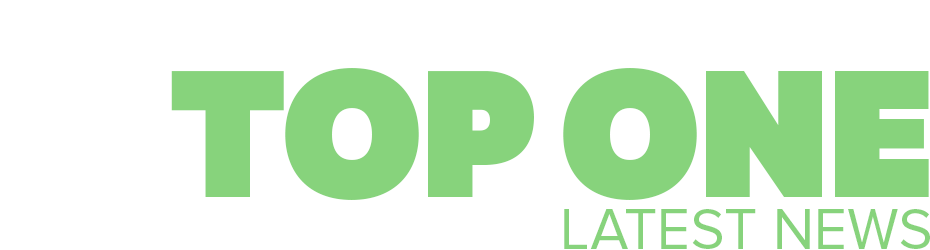
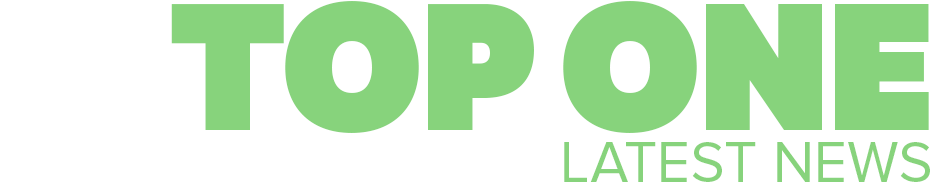
CSS and home updates

diff --git a/css/home.css b/css/home.css
@@ -1,18 +1,54 @@
 /* Home */
 
-.topNews {
-	height: 250px;
-	background-color: #FDE3A7;
-	margin: 15px;	
-}
-
 #subTopicAndImage {
 	margin: 0 auto;
-	width: 930px;
-	height: 200px;
-	border: 1px solid #87D37C;
+	padding-top: 5px;
+	width: 910px;
+	height: 180px;
 	background-image: url(../images/homeimage.png);	
 	background-size: 65%;
 	background-repeat: no-repeat;
 	background-position: top right;
+}
+
+.topNewsContainer {
+	height: 250px;
+	margin: 15px;	
+	position: relative;
+	overflow: hidden;
+	border-bottom: 3px solid #4183D7;
+	padding-bottom: 15px;
+}
+
+/* "!important" overrides inline-styles 
+	which may be included in the fetched RSS */
+.topNewsContainer img,
+.topNewsContainer figure,
+.topNewsContainer iframe,
+.topNewsContainer youtube {
+	margin: 0 !important;
+	padding: 0 !important;
+	width: 400px !important;
+	height: 250px !important;
+	position: absolute !important;
+	top: 0 !important;
+	right: 0 !important;
+}
+
+.textWrap {
+	width: 400px;
+	color: #6C7A89;
+	font-size: 18px;
+	padding-bottom: 15px;
+}
+
+.topNewsContainer a:link {
+	color: #87D37C;
+	text-decoration: none;
+	word-wrap: break-word;
+}
+
+.topNewsContainer a:visited {
+	color: #26A65B;
+	text-decoration: none;
 }

diff --git a/css/main.css b/css/main.css
@@ -9,6 +9,7 @@ header {
 	padding: 0;
 	background-color: #4183D7;
 	position: fixed;
+	z-index: 100;
 }
 
 #blockElement {
@@ -47,11 +48,11 @@ footer {
 }
 
 #toTopAnchor a:visited {
-	color: #F4B350;
+	color: #87D37C;
 }
 
 #toTopAnchor a:hover {
-	color: #F4B350;
+	color: #87D37C;
 }
 
 main h1 {

diff --git a/css/newsfeed.css b/css/newsfeed.css
@@ -105,7 +105,7 @@
 	display: block;
 }
 
-/* This is a class which may be imported from one or more RSS-feeds.
+/* Youtube is a class which may be imported from one or more RSS-feeds.
  * "!important" overrides inline-styles */
 .youtube, iframe, figure {
 	width: 423px !important;

diff --git a/view/HomeView.php b/view/HomeView.php
@@ -14,7 +14,6 @@ class HomeView {
 	public function response() {
 		
 		return 
-			$this -> renderTopic() .
 			$this -> renderSubTopicAndImage() .
 			$this -> renderTopNews();
 	}
@@ -26,17 +25,66 @@ class HomeView {
 	
 	private function renderTopNews() {
 	
-		$divs = '';
-	
-		for ($i = 1; $i <= 3; $i++) {
+		$amountOfSites = 0;
+		$containers = '';
+		
+		foreach ($this -> siteArray as $site) {
 			
-			$divs .= '
-				<div class="topNews">
-				</div>
-			';
+			if ($amountOfSites == 3) break;
+			$amountOfSites += 1;
+			
+			$news = $site -> getNews();
+			$latestArticle = $news[0];
+			
+			$containers .= '
+				<div class="topNewsContainer">
+					'. $this -> renderTopArticle($latestArticle) .'
+				</div>';
 		}
 		
-		return $divs;
+		return $containers;
+	}
+	
+	private function renderTopArticle($latestArticle) {
+	
+			$title = str_replace(' & ', ' &amp; ', $latestArticle -> getTitle());
+			$link = $latestArticle -> getLink();
+			$image = $latestArticle -> getImgUrl();
+			$description = $latestArticle -> getDescription();
+			$date = date('l F d, Y', strtotime($latestArticle -> getPubDate()));
+					
+			return
+				'<div class="textWrap">' .
+					$this -> renderArticleLinkWithTitle($title, $link) .
+					$this -> renderArticleDate($date) .
+					$this -> renderArticleDescription($description) .
+				'</div>' .
+					$this -> renderArticleImage($image);	
+	}
+	
+	private function renderArticleLinkWithTitle($title, $link) {
+	
+		return '<p><strong><a href="'. $link .' title="'. $title .'">'. $title .'</a></strong></p>';
+	}
+	
+	private function renderArticleDate($date) {
+		
+		return '<small>Posted on '. $date .'</small>';
+	}
+	
+	private function renderArticleImage($image) {
+		
+		if ($image != '') { 
+		
+			return '<p><img src="'. $image .'"></p>'; 
+		}
+		
+		return null;
+	}
+	
+	private function renderArticleDescription($description) {
+	
+		return '<p>'. $description .'</p>';	
 	}
 	
 	private function renderSubTopicAndImage() {

diff --git a/controller/MasterController.php b/controller/MasterController.php
@@ -2,14 +2,16 @@
 
 class MasterController {
 
+	private $homeController;
 	private $loginController;
 	private $registerController;
 	private $newsfeedController;
 	private $contactController;
 	
 	
-	public function __construct($loginController, $registerController, $newsfeedController, $contactController) {
-	
+	public function __construct($homeController, $loginController, $registerController, $newsfeedController, $contactController) {
+		
+		$this -> homeController = $homeController;
 		$this -> loginController = $loginController;	
 		$this -> registerController = $registerController;
 		$this -> newsfeedController = $newsfeedController;
@@ -17,8 +19,6 @@ class MasterController {
 	}
 	
 	public function handleUserRequest() {
-		
-		$this -> homeController -> handleRSSFeed();
 		
 		// USER PRESS LOGIN.
 		if ($this -> loginController -> reforwardDidUserPressLogin()) {
@@ -50,5 +50,8 @@ class MasterController {
 			$this -> newsfeedController -> handleRSSFeed();
 			$this -> newsfeedController -> verifyNewsfeedSettings();
 		}
+		
+		$this -> homeController -> handleRSSFeed();
 	}
+	
 }

diff --git a/index.php b/index.php
@@ -81,12 +81,12 @@ $contactView = new ContactView();
 $layoutView = new LayoutView($homeView, $loginView, $registerView, $newsfeedView, $contactView);
 
 // CREATE OBJECTS OF CONTROLLERS.
-$homeController = new HomeController($homeView, $sessionModel);
+$homeController = new HomeController($homeView, $homeModel, $sessionModel);
 $loginController = new LoginController($loginView, $loginModel, $sessionModel);
 $registerController = new RegisterController($registerView, $registerModel, $navigationView);
 $newsfeedController = new NewsfeedController($newsfeedView, $newsfeedModel, $sessionModel);
 $contactController = new ContactController($contactView);
-$masterController = new MasterController($loginController, $registerController, $newsfeedController, $contactController);
+$masterController = new MasterController($homeController, $loginController, $registerController, $newsfeedController, $contactController);
 
 // CALL FUNCTIONS.
 $masterController -> handleUserRequest();

diff --git a/model/ServiceModel.php b/model/ServiceModel.php
@@ -17,9 +17,9 @@ class ServiceModel {
 		if ($this -> userDAL == null) {
 			
 			$this -> userDAL = new UserDAL();
-		}
-	
-		return $this -> userDAL -> getRegisteredUsers(); 	
+		} 	
+		
+		return $this -> userDAL -> getRegisteredUsers();
 	}
 	
 	public function getRssCache() {
@@ -29,7 +29,7 @@ class ServiceModel {
 			$this -> rssDAL = new RssDAL();
 		}
 		
-		return $this -> rssDAL -> getRss();	
+		return $this -> rssDAL -> getRss();
 	}
 	
 }
